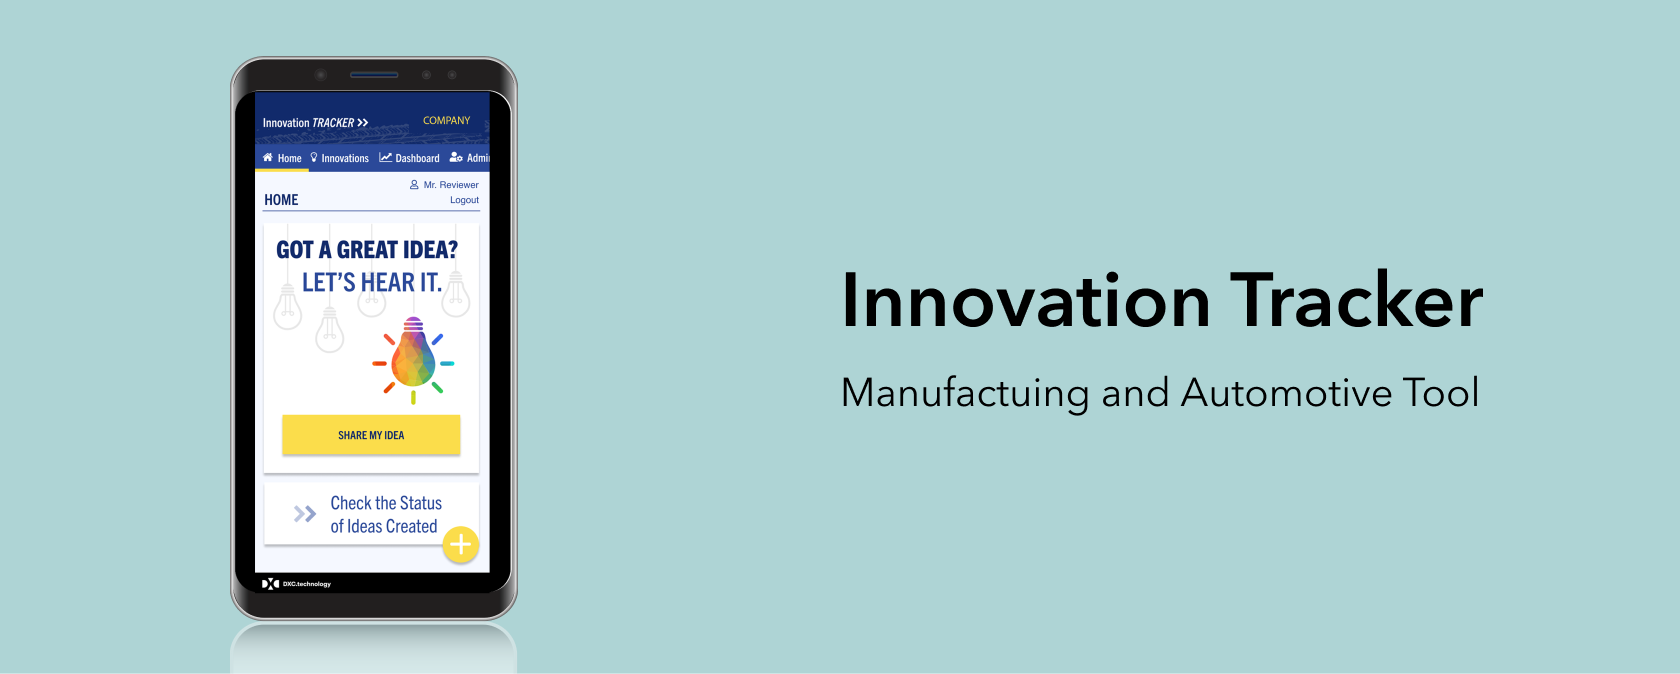
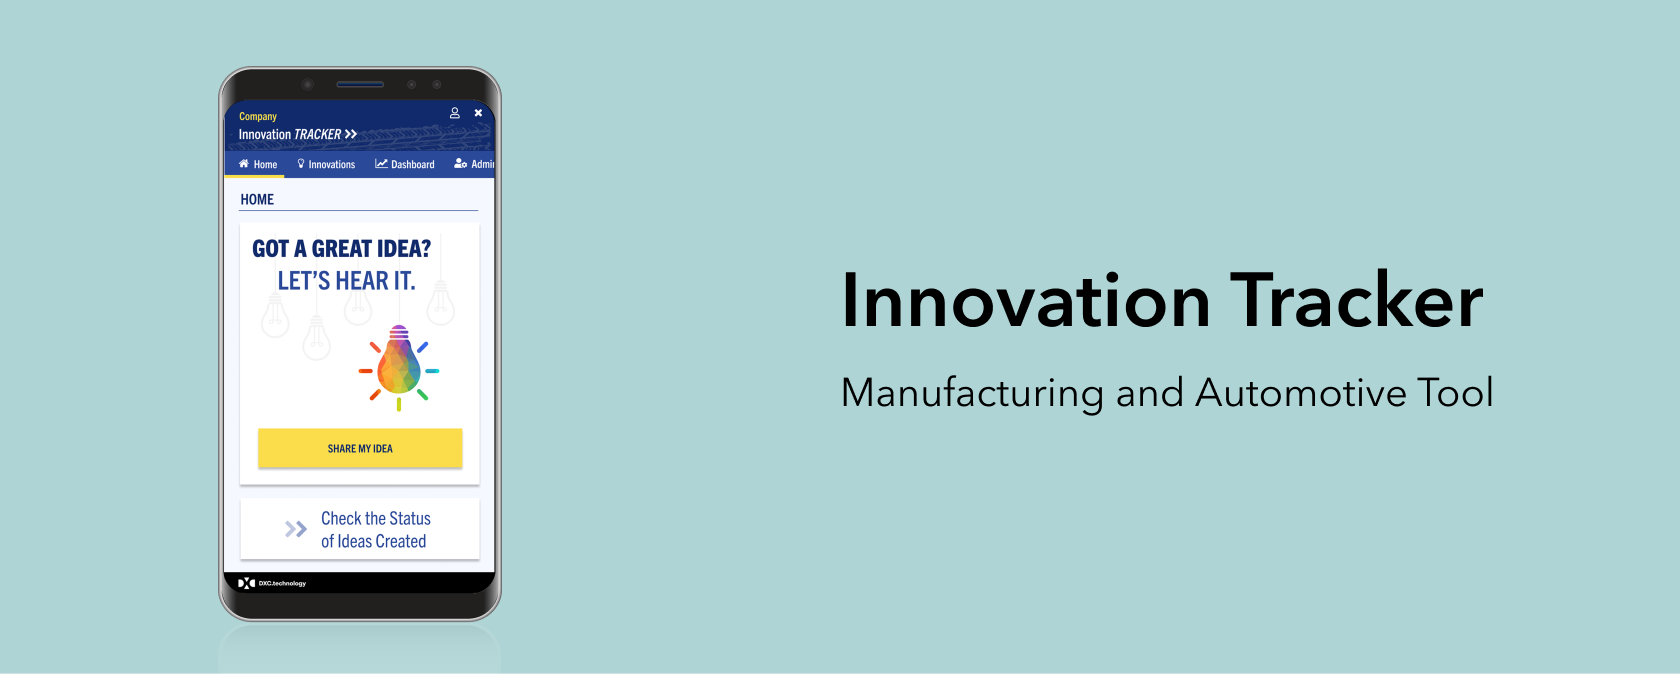
color changes and innovation photo update

Changed region(s): [[0.1238, 0.0623, 0.3095, 1.0], [0.619, 0.5608, 0.8976, 0.6231]]

diff --git a/src/scss/custom/_styles.scss b/src/scss/custom/_styles.scss
@@ -4,7 +4,7 @@
  */
 
  .red {
-     color: #0091EA;
+     color: #2154C1;
  }
 
  .logo {
@@ -25,17 +25,17 @@ p {
  }
 
  .bqspecial {
-     background-color: #cce5f4;
+     background-color: #E9F0F9;
      line-height: 1.8;
      border-radius: 20px;
  }
 
  .bqstext {
-     color:  #232323;
+     color:  #2154C1;
  }
 
  .bg-gold {
-     background-color: #F9CC88;
+     background-color: #FAD6A0;
  }
 
  .bg-blue {

diff --git a/src/scss/custom/_variables.scss b/src/scss/custom/_variables.scss
@@ -8,4 +8,4 @@
  * $font-family-base: 'Merriweather', serif;
  */
 
- $secondary:     #0091EA;
+ $secondary:     #2154C1;
